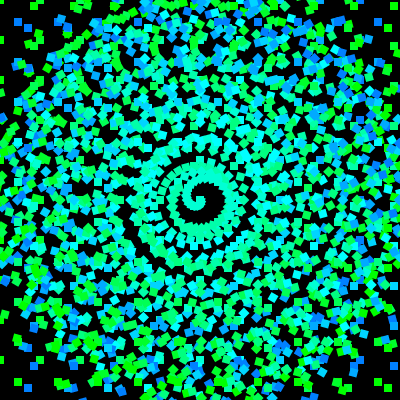
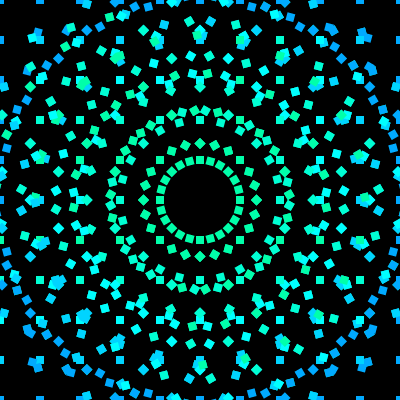
Add flip functions

diff --git a/src/shape.rs b/src/shape.rs
@@ -157,8 +157,56 @@ impl Shape {
         }
     }
 
-    pub fn flip(&mut self, _f: f32) {
-        todo!()
+    pub fn flip(&mut self, f: f32) {
+        match self {
+            Self::Basic(BasicShape::Square { transform, .. })
+            | Self::Basic(BasicShape::Circle { transform, .. })
+            | Self::Basic(BasicShape::Triangle { transform, .. })
+            | Self::Composite { transform, .. }
+            | Self::Collection { transform, .. } => {
+                *transform = transform.post_rotate(f).post_scale(-1.0, 1.0).post_rotate(-f);
+            }
+            Self::Basic(BasicShape::Fill { .. }) => (),
+        }
+    }
+
+    pub fn fliph(&mut self) {
+        match self {
+            Self::Basic(BasicShape::Square { transform, .. })
+            | Self::Basic(BasicShape::Circle { transform, .. })
+            | Self::Basic(BasicShape::Triangle { transform, .. })
+            | Self::Composite { transform, .. }
+            | Self::Collection { transform, .. } => {
+                *transform = transform.post_scale(-1.0, 1.0);
+            }
+            Self::Basic(BasicShape::Fill { .. }) => (),
+        }
+    }
+
+    pub fn flipv(&mut self) {
+        match self {
+            Self::Basic(BasicShape::Square { transform, .. })
+            | Self::Basic(BasicShape::Circle { transform, .. })
+            | Self::Basic(BasicShape::Triangle { transform, .. })
+            | Self::Composite { transform, .. }
+            | Self::Collection { transform, .. } => {
+                *transform = transform.post_scale(1.0, -1.0);
+            }
+            Self::Basic(BasicShape::Fill { .. }) => (),
+        }
+    }
+
+    pub fn flipd(&mut self) {
+        match self {
+            Self::Basic(BasicShape::Square { transform, .. })
+            | Self::Basic(BasicShape::Circle { transform, .. })
+            | Self::Basic(BasicShape::Triangle { transform, .. })
+            | Self::Composite { transform, .. }
+            | Self::Collection { transform, .. } => {
+                *transform = transform.post_scale(-1.0, -1.0);
+            }
+            Self::Basic(BasicShape::Fill { .. }) => (),
+        }
     }
 
     pub fn set_hue(&mut self, hue: f32) {

diff --git a/src/functions.rs b/src/functions.rs
@@ -82,6 +82,12 @@ pub const BUILTIN_FUNCTIONS: &[&str] = &[
     "skewb",
     "f",
     "flip",
+    "fh",
+    "fliph",
+    "fv",
+    "flipv",
+    "fd",
+    "flipd",
     "h",
     "hue",
     "sat",
@@ -764,6 +770,48 @@ pub fn flip(args: &[Value]) -> Result<Value> {
     Ok(Value::Shape(shape))
 }
 
+pub fn fliph(args: &[Value]) -> Result<Value> {
+    if args.len() != 1 {
+        return Err(anyhow!("Invalid number of arguments to `fliph` function."));
+    }
+
+    let shape = match &args[0] {
+        Value::Shape(shape) => shape.clone(),
+        _ => return Err(anyhow!("Invalid type passed to `fliph` function.")),
+    };
+
+    lock_shape(&shape).fliph();
+    Ok(Value::Shape(shape))
+}
+
+pub fn flipv(args: &[Value]) -> Result<Value> {
+    if args.len() != 1 {
+        return Err(anyhow!("Invalid number of arguments to `flipv` function."));
+    }
+
+    let shape = match &args[0] {
+        Value::Shape(shape) => shape.clone(),
+        _ => return Err(anyhow!("Invalid type passed to `flipv` function.")),
+    };
+
+    lock_shape(&shape).flipv();
+    Ok(Value::Shape(shape))
+}
+
+pub fn flipd(args: &[Value]) -> Result<Value> {
+    if args.len() != 1 {
+        return Err(anyhow!("Invalid number of arguments to `flipd` function."));
+    }
+
+    let shape = match &args[0] {
+        Value::Shape(shape) => shape.clone(),
+        _ => return Err(anyhow!("Invalid type passed to `flipd` function.")),
+    };
+
+    lock_shape(&shape).flipd();
+    Ok(Value::Shape(shape))
+}
+
 pub fn hue(args: &[Value]) -> Result<Value> {
     if args.len() != 2 {
         return Err(anyhow!("Invalid number of arguments to `hue` function."));
@@ -907,6 +955,9 @@ pub fn handle_builtin(name: &str, args: &[Value]) -> Result<Value> {
         "ky" | "skewy" => skewy(args),
         "kk" | "skewb" => skewb(args),
         "f" | "flip" => flip(args),
+        "fh" | "fliph" => fliph(args),
+        "fv" | "flipv" => flipv(args),
+        "fd" | "flipd" => flipd(args),
         // "hsl" => hsl(args),
         // "hsla" => hsla(args),
         "h" | "hue" => hue(args),
